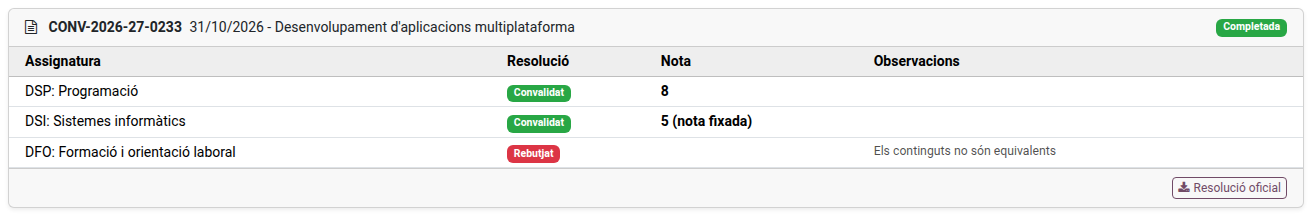
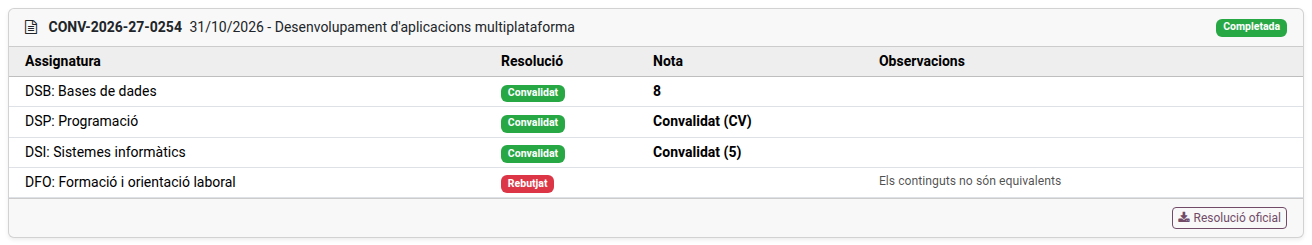
#738 Convalidations: show "Convalidat (5)" and "Convalidat (CV)"
Following the DOIGC wording, the resolution, portal, email and teachers'
notice read "Convalidat (5)" for a fixed 5 and "Convalidat (CV)" without
a grade. Tests, i18n, manuals and screenshots (all combinations) updated.

Changed region(s): [[0.0, 0.3349, 1.0, 0.9767], [0.0, 0.0279, 1.0, 0.307]]

diff --git a/tests/test_convalidation.py b/tests/test_convalidation.py
@@ -375,28 +375,19 @@ class TestConvalidation(TransactionCase):
         self.assertIn("Different competences", html)
         self.assertIn("1085/2020", html)
 
-    def test_only_a_subject_without_grade_reads_convalidated(self):
-        """Issue #580: "Convalidated" is the subject convalidated without a grade, not a 5."""
+    def test_the_resolution_shows_how_each_subject_is_convalidated(self):
+        """Issues #580 and #738: the grade, "Convalidated (CV)" without one and "Convalidated (5)"
+        with a fixed 5, as the DOIGC record them."""
         request = self._request(self.subject | self.other_subject)
         self._line(request).with_user(self.head_of_studies).action_grant()
-        self._line(request, self.other_subject).with_user(self.head_of_studies).write(
-            {'state': 'granted', 'grade_type': 'without_grade'})
-        cells = [cell.strip() for cell in self._resolution_html(request, 'en_US').split('<td>')[1:]]
-        self.assertTrue(any(cell.startswith('Convalidated') for cell in cells))
-        self.assertTrue(any(cell.startswith('5') for cell in cells))
-        self._line(request, self.other_subject).with_user(self.head_of_studies).write({'grade_type': 'grade'})
-        cells = [cell.strip() for cell in self._resolution_html(request, 'en_US').split('<td>')[1:]]
-        self.assertFalse(any(cell.startswith('Convalidated') for cell in cells))
-
-
-    def test_a_fixed_five_is_stated_on_the_resolution(self):
-        """Issue #738: the secretariat registers it differently in Esfera, so it says so."""
-        request = self._request(self.subject | self.other_subject)
-        self._line(request).with_user(self.head_of_studies).write({'state': 'granted', 'grade_type': 'fixed_five'})
-        self._line(request, self.other_subject).with_user(self.head_of_studies).action_grant()
-        cells = [cell.strip() for cell in self._resolution_html(request, 'en_US').split('<td>')[1:]]
-        self.assertEqual(sum(cell.startswith('5 (fixed grade)') for cell in cells), 1)
-        self.assertEqual(sum(cell.startswith('5') for cell in cells), 2)
+        other = self._line(request, self.other_subject).with_user(self.head_of_studies)
+        other.write({'state': 'granted', 'grade_type': 'without_grade'})
+        for grade_type, label in (('without_grade', 'Convalidated (CV)'), ('fixed_five', 'Convalidated (5)'),
+                                  ('grade', None)):
+            other.write({'grade_type': grade_type})
+            cells = [cell.split('<')[0].strip() for cell in self._resolution_html(request, 'en_US').split('<td>')[1:]]
+            self.assertIn('5', cells)
+            self.assertEqual([cell for cell in cells if cell.startswith('Convalidated')], [label] if label else [])
 
     def test_legal_grounds_and_appeal_are_configurable(self):
         request = self._request(basis='certificate')
@@ -716,7 +707,7 @@ class TestConvalidation(TransactionCase):
     def test_the_email_states_a_fixed_five(self):
         request = self._completed(grade_type='fixed_five')
         body = self._resolution_mails(request).body_html
-        self.assertTrue(any(text in body for text in ("fixed grade: 5", "nota fixada: 5", "nota fijada: 5")), body)
+        self.assertRegex(body, r"(?i)convalidat\w*</strong>\s*\(5\)")
 
     def _minor_with_family(self):
         minor = self.env['res.partner'].create({
@@ -1082,7 +1073,7 @@ class TestConvalidation(TransactionCase):
         self._teaching_staff()
         self._enroll_and_grade()
         self._completed(grade_type='without_grade')
-        self.assertIn(f"{self.subject.display_name}, without a grade", self._notices(self.teacher).body)
+        self.assertIn(f"{self.subject.display_name}, convalidated (CV)", self._notices(self.teacher).body)
 
     # --- registration number -------------------------------------------------
 
@@ -1091,7 +1082,7 @@ class TestConvalidation(TransactionCase):
         self._teaching_staff()
         self._enroll_and_grade()
         self._completed(grade_type='fixed_five')
-        self.assertIn(f"{self.subject.display_name}, with a fixed 5", self._notices(self.teacher).body)
+        self.assertIn(f"{self.subject.display_name}, convalidated (5)", self._notices(self.teacher).body)
 
     def test_requests_are_numbered_per_course(self):
         first, second = self._request(), self._request(self.other_subject)

diff --git a/tests/test_docs_screenshots.py b/tests/test_docs_screenshots.py
@@ -398,24 +398,27 @@ class TestDocsScreenshots(DocsScreenshotMixin, HttpCase):
                 'state': 'rejected',
                 'rejection_reason_id': self.env.ref('ems.convalidation_rejection_reason_contents').id})
 
+        def set_grade_types(request):
+            for line, grade_type in zip(request.line_ids[1:3], ('without_grade', 'fixed_five')):
+                line.sudo().write({'state': 'granted', 'grade_type': grade_type, 'rejection_reason_id': False})
+
         # Issue #657: the identity document, copied like the IDALU above it.
         self.students[0].document_id = '00000000T'
         # The Head of Studies' review: subjects decided, one refused with its reason.
-        review = new_request(self.students[0], subjects[1:], attachment_ids=[(0, 0, {
+        review = new_request(self.students[0], subjects, attachment_ids=[(0, 0, {
             'name': 'Certificat_academic_SMX.pdf', 'datas': base64.b64encode(b'%PDF-1.4 x')})],
             student_notes="Vaig cursar el CFGM de Sistemes microinformàtics i xarxes.")
         decide(review)
-        # Issue #580: a module convalidated without a grade.
-        review.line_ids[1].sudo().write({'state': 'granted', 'grade_type': 'without_grade', 'rejection_reason_id': False})
+        # Issues #580 and #738: every way of convalidating - a grade, without one (CV), a 5.
+        set_grade_types(review)
         at_ministry = new_request(self.students[1], subjects[1:2], basis='other')
         at_ministry.sudo().action_send_to_ministry()
         proposed = new_request(self.students[2], subjects[1:])
         decide(proposed)
         proposed.with_user(head_of_studies).action_propose()
-        resolved = new_request(self.portal_student, subjects[1:])
+        resolved = new_request(self.portal_student, subjects)
         decide(resolved)
-        # Issue #738: a module convalidated with a fixed 5, which the resolution states.
-        resolved.line_ids[1].sudo().write({'state': 'granted', 'grade_type': 'fixed_five', 'rejection_reason_id': False})
+        set_grade_types(resolved)
         resolved.with_user(head_of_studies).action_propose()
         resolved.with_user(director).action_resolve()
 

diff --git a/models/grades/convalidation.py b/models/grades/convalidation.py
@@ -23,9 +23,9 @@ GRADE_TYPES = [
     ('without_grade', 'Without grade'),
     ('fixed_five', 'With a fixed 5'),
 ]
-GRADE_TYPE_HELP = ("Without grade, the resolution and the grades show the subject as \"Convalidated\" (CV), "
-                   "and it does not count towards the average. With a fixed 5, it counts as a 5 whatever the "
-                   "previous studies hold, and the resolution states that the grade is fixed.")
+GRADE_TYPE_HELP = ("Without grade, the resolution shows the subject as \"Convalidated (CV)\" and the grades as "
+                   "CV, and it does not count towards the average. With a fixed 5, it counts as a 5 whatever the "
+                   "previous studies hold, and the resolution shows it as \"Convalidated (5)\".")
 
 # States a request can no longer move on from.
 CLOSED_STATES = ('completed', 'rejected', 'cancelled')
@@ -1058,9 +1058,9 @@ class EmsConvalidationLine(models.Model):
         self.ensure_one()
         subject = self.subject_id.display_name
         if self.grade_type == 'without_grade':
-            return self.env._("%(subject)s, without a grade", subject=subject)
+            return self.env._("%(subject)s, convalidated (CV)", subject=subject)
         if self.grade_type == 'fixed_five':
-            return self.env._("%(subject)s, with a fixed %(grade)s", subject=subject, grade=CONVALIDATED_GRADE)
+            return self.env._("%(subject)s, convalidated (5)", subject=subject)
         return self.env._("%(subject)s, with a %(grade)s", subject=subject, grade=self.grade)
 
     def _ems_rejection_text(self):

diff --git a/tests/test_portal_convalidation.py b/tests/test_portal_convalidation.py
@@ -331,7 +331,7 @@ class TestPortalConvalidation(HttpCase):
         request.sudo().action_complete()
         self._login(self.student_user)
         page = self.url_open('/my/convalidaciones').text
-        self.assertIn('<strong>Convalidated</strong>', page)
+        self.assertIn('<strong>Convalidated (CV)</strong>', page)
         self.assertNotIn('<strong>7</strong>', page)
 
 
@@ -341,7 +341,7 @@ class TestPortalConvalidation(HttpCase):
         request.sudo().action_complete()
         self._login(self.student_user)
         page = self.url_open('/my/convalidaciones').text
-        self.assertIn('<strong>5 (fixed grade)</strong>', page)
+        self.assertIn('<strong>Convalidated (5)</strong>', page)
 
     def test_resolution_is_not_downloadable_before_it_is_registered(self):
         request = self._resolved_request()

diff --git a/docs/en/developers/grades/convalidation.md b/docs/en/developers/grades/convalidation.md
@@ -91,7 +91,7 @@ The same kind of catalog as `ems.convalidation.info_reason` (`name` translatable
 | `subject_id` | M2o `ems.subject` | Must be one of `study_id._ems_convalidable_subjects()` (the study's subjects minus the tutorship). Unique per request. |
 | `state` | Selection | `pending`, `granted`, `rejected`. |
 | `grade` | Integer | The grade a granted subject is recorded with. Defaults to `CONVALIDATED_GRADE` (5) and is constrained to 5..10 when `grade_type` is `grade`: a convalidated subject is passed by definition. |
-| `grade_type` | Selection (`GRADE_TYPES`) | How the subject is convalidated. `grade` (default): with `grade`. `without_grade` (issue #580): the resolution and the portal read *Convalidat*, the grades a plain **CV**, and it does not count towards any average; `grade` is ignored. `fixed_five` (issue #738): it counts as a 5 whatever the previous studies hold (`_ems_resolved_grade()` returns `CONVALIDATED_GRADE`), and the resolution, the portal and the email say the grade is fixed (*5 (nota fixada)*), since the secretariat registers it differently in Esfera. Shown as the **Grade type** column on the form's subjects, for the secretariat. |
+| `grade_type` | Selection (`GRADE_TYPES`) | How the subject is convalidated. `grade` (default): with `grade`. `without_grade` (issue #580): the resolution and the portal read *Convalidat (CV)*, the grades a plain **CV**, and it does not count towards any average; `grade` is ignored. `fixed_five` (issue #738): it counts as a 5 whatever the previous studies hold (`_ems_resolved_grade()` returns `CONVALIDATED_GRADE`), and the resolution and the portal read *Convalidat (5)* (the email, "convalidat (5)"): the DOIGC record both kinds as *Convalidat*, the 5 only counting towards the average (convalidations from accredited competence standards), and the secretariat needs to tell them apart in Esfera. Shown as the **Grade type** column on the form's subjects, for the secretariat. |
 | `rejection_reason_id` | M2o `ems.convalidation.rejection_reason` | Why the subject is refused (`ondelete='restrict'`). Set by the reject dialog, editable on the line while under review. |
 | `rejection_reason` | Text | *Refusal details*: optional text after the reason. Lines refused before #580 hold their whole reason here, with no `rejection_reason_id`. |
 
@@ -150,7 +150,7 @@ There is no whole-request "reject" action: a refusal is a resolution like any ot
 - Company header (`web.external_layout`) and the title *Resolució de convalidació de mòduls professionals*.
 - Registration number, request date, applicant (with `document_id`), the representative of a minor (`_ems_resolution_representative()`: the family contact that filed it, else the first one on file), study and course.
 - Grounds of law: RD 1085/2020, art. 8 (fixed), plus `_ems_resolution_legal_grounds()`: the text configured for the request's `basis`, or the standard one.
-- One row per module: code, name, favourable/unfavourable, grade — *Convalidat* when the line's `grade_type` is `without_grade`, *5 (nota fixada)* when it is `fixed_five`, the number otherwise — and the refusal reason.
+- One row per module: code, name, favourable/unfavourable, grade — *Convalidat (CV)* when the line's `grade_type` is `without_grade`, *Convalidat (5)* when it is `fixed_five`, the number otherwise — and the refusal reason.
 - Place (company city) and `signature_date`, *El director / La directora*, *Per delegació* when configured, a green *Validat a l'EMS* stamp (who resolved it, the date and the registration number) where a signature would go, and the name from `_ems_resolution_signatory()`: the holder of `ems.role_director`, or `signed_by_id` when signing by delegation. The stamp is only EMS's own record of the step, not a qualified electronic signature (issue #530).
 - The appeal footer, `_ems_resolution_appeal_text()`: configured, or a standard one naming the competent body only in general terms (the exact body is pending confirmation with the Inspecció).
 

diff --git a/docs/es/head_of_studies/convalidations.md b/docs/es/head_of_studies/convalidations.md
@@ -93,7 +93,7 @@ En cada línea de la pestaña **Asignaturas**, usa los botones de la derecha:
 | ✖ (Rechazar) | Pide el motivo y deniega el módulo. |
 | ↺ (Volver a pendiente) | Deshace la decisión de la línea. |
 
-- **Nota:** cada módulo se revisa y se califica de uno en uno. Al pulsar ✔, un diálogo la pide: con el **Modo** en **Con nota** (por defecto), escribe la nota, 5 por defecto o la que tienen los estudios previos (de 5 a 10). Elige **Sin nota** cuando el módulo se convalida sin nota: la resolución lo muestra como **Convalidat**, las notas como **CV**, y no cuenta para la media. Elige **Con un 5 fijado** cuando el módulo se convalida con un 5 sea cual sea la nota de los estudios previos: cuenta como un 5, y la resolución muestra **5 (nota fixada)** para que secretaría lo registre así en Esfera. Hasta que no envíes la propuesta, aún puedes cambiar las columnas **Nota** y **Tipo de nota** de la línea.
+- **Nota:** cada módulo se revisa y se califica de uno en uno. Al pulsar ✔, un diálogo la pide: con el **Modo** en **Con nota** (por defecto), escribe la nota, 5 por defecto o la que tienen los estudios previos (de 5 a 10). Elige **Sin nota** cuando el módulo se convalida sin nota: la resolución lo muestra como **Convalidat (CV)**, las notas como **CV**, y no cuenta para la media. Elige **Con un 5 fijado** cuando el módulo se convalida con un 5 sea cual sea la nota de los estudios previos: cuenta como un 5 para la media, y la resolución muestra **Convalidat (5)** para que secretaría lo registre así en Esfera (por ejemplo, convalidaciones por estándares de competencia acreditados). Hasta que no envíes la propuesta, aún puedes cambiar las columnas **Nota** y **Tipo de nota** de la línea.
 - **Motivo de la denegación:** al pulsar ✖, un diálogo pide el **Motivo**, con el más habitual ya seleccionado, y unos **Detalles** opcionales. Ambos salen en la resolución. Hasta que no envíes la propuesta, aún puedes cambiarlos en la línea. La lista de motivos la mantienes tú mismo, junto con el administrador del EMS, desde **Gestión académica > Configuración > Convalidaciones** (ver [Configuración de las convalidaciones](../admin/convalidation-settings.md)).
 - **Qué ve el alumno:** nada de lo que decidas sobre cada módulo, ni las observaciones para el alumno, hasta que secretaría registra la resolución. Hasta entonces, el portal solo muestra los módulos solicitados y el estado de la solicitud.
 

diff --git a/docs/en/head_of_studies/convalidations.md b/docs/en/head_of_studies/convalidations.md
@@ -93,7 +93,7 @@ On each line of the **Subjects** tab, use the buttons on the right:
 | ✖ (Reject) | Asks for the reason, then refuses the module. |
 | ↺ (Back to pending) | Undoes the line's decision. |
 
-- **Grade:** each module is checked and graded one by one. When you click ✔, a dialog asks for it: with **Mode** set to **With grade** (the default), write the grade, 5 by default or the one the previous studies hold (from 5 to 10). Choose **Without grade** when the module is convalidated with no grade: the resolution shows it as **Convalidat**, the grades as **CV**, and it does not count towards the average. Choose **With a fixed 5** when the module is convalidated with a 5 whatever grade the previous studies hold: it counts as a 5, and the resolution shows **5 (nota fixada)** so the secretariat registers it that way in Esfera. Until you send the proposal, you can still change the **Grade** and **Grade type** columns on the line.
+- **Grade:** each module is checked and graded one by one. When you click ✔, a dialog asks for it: with **Mode** set to **With grade** (the default), write the grade, 5 by default or the one the previous studies hold (from 5 to 10). Choose **Without grade** when the module is convalidated with no grade: the resolution shows it as **Convalidat (CV)**, the grades as **CV**, and it does not count towards the average. Choose **With a fixed 5** when the module is convalidated with a 5 whatever grade the previous studies hold: it counts as a 5 towards the average, and the resolution shows **Convalidat (5)** so the secretariat registers it that way in Esfera (e.g. convalidations from accredited competence standards). Until you send the proposal, you can still change the **Grade** and **Grade type** columns on the line.
 - **Reason for refusal:** when you click ✖, a dialog asks for the **Reason**, with the most usual one already selected, and optional **Details**. Both appear on the resolution. They can still be changed on the line until you send the proposal. You maintain the list of reasons yourself, together with the EMS administrator, from **Academic management > Configuration > Convalidations** (see [Convalidation settings](../admin/convalidation-settings.md)).
 - **What the student sees:** nothing of what you decide on each module, nor the comments for the student, until the secretariat registers the resolution. Until then the portal only shows the modules requested and the state of the request.
 

diff --git a/docs/ca/head_of_studies/convalidations.md b/docs/ca/head_of_studies/convalidations.md
@@ -93,7 +93,7 @@ A cada línia de la pestanya **Assignatures**, fes servir els botons de la dreta
 | ✖ (Rebutjar) | Demana el motiu i denega el mòdul. |
 | ↺ (Torna a pendent) | Desfà la decisió de la línia. |
 
-- **Nota:** cada mòdul es revisa i es qualifica d'un en un. En clicar ✔, un diàleg la demana: amb el **Mode** a **Amb nota** (per defecte), escriu la nota, 5 per defecte o la que tenen els estudis previs (de 5 a 10). Tria **Sense nota** quan el mòdul es convalida sense nota: la resolució el mostra com a **Convalidat**, les notes com a **CV**, i no compta per a la mitjana. Tria **Amb un 5 fixat** quan el mòdul es convalida amb un 5 sigui quina sigui la nota dels estudis previs: compta com un 5, i la resolució mostra **5 (nota fixada)** perquè secretaria el registri així a Esfera. Fins que no enviïs la proposta, encara pots canviar les columnes **Nota** i **Tipus de nota** de la línia.
+- **Nota:** cada mòdul es revisa i es qualifica d'un en un. En clicar ✔, un diàleg la demana: amb el **Mode** a **Amb nota** (per defecte), escriu la nota, 5 per defecte o la que tenen els estudis previs (de 5 a 10). Tria **Sense nota** quan el mòdul es convalida sense nota: la resolució el mostra com a **Convalidat (CV)**, les notes com a **CV**, i no compta per a la mitjana. Tria **Amb un 5 fixat** quan el mòdul es convalida amb un 5 sigui quina sigui la nota dels estudis previs: compta com un 5 per a la mitjana, i la resolució mostra **Convalidat (5)** perquè secretaria el registri així a Esfera (per exemple, convalidacions per estàndards de competència acreditats). Fins que no enviïs la proposta, encara pots canviar les columnes **Nota** i **Tipus de nota** de la línia.
 - **Motiu de la denegació:** en clicar ✖, un diàleg demana el **Motiu**, amb el més habitual ja seleccionat, i uns **Detalls** opcionals. Tots dos surten a la resolució. Fins que no enviïs la proposta, encara els pots canviar a la línia. La llista de motius la mantens tu mateix, juntament amb l'administrador de l'EMS, des de **Gestió acadèmica > Configuració > Convalidacions** (vegeu [Configuració de les convalidacions](../admin/convalidation-settings.md)).
 - **Què veu l'alumne:** res del que decideixis sobre cada mòdul, ni les observacions per a l'alumne, fins que secretaria registra la resolució. Fins aleshores, el portal només mostra els mòduls sol·licitats i l'estat de la sol·licitud.
 

diff --git a/docs/es/families/manual-convalidacions.md b/docs/es/families/manual-convalidacions.md
@@ -82,7 +82,7 @@ Cada solicitud aparece bajo el formulario, con su número de registro (por ejemp
 | **Rechazada** | Registrada, sin ningún módulo convalidado. |
 | **Anulada** | La solicitud se ha anulado. Si la ha anulado el centro, su recuadro indica el motivo. |
 
-Mientras la solicitud se tramita, la tabla solo lista los módulos solicitados: el estado te indica en qué punto está. La decisión sobre cada módulo aún puede cambiar hasta que secretaría la registra, y por eso no se muestra antes. Cuando la solicitud queda **Completada** o **Rechazada**, la tabla muestra la resolución de cada módulo (**Convalidado** o **Rechazado**) y, en **Observaciones**, el motivo de los módulos rechazados; en una solicitud **Completada** aparece también la columna **Nota**: un módulo convalidado sin nota muestra ahí **Convalidado**, y uno convalidado con un 5 fijado (un 5 sea cual sea la nota de los estudios previos) muestra **5 (nota fijada)**.
+Mientras la solicitud se tramita, la tabla solo lista los módulos solicitados: el estado te indica en qué punto está. La decisión sobre cada módulo aún puede cambiar hasta que secretaría la registra, y por eso no se muestra antes. Cuando la solicitud queda **Completada** o **Rechazada**, la tabla muestra la resolución de cada módulo (**Convalidado** o **Rechazado**) y, en **Observaciones**, el motivo de los módulos rechazados; en una solicitud **Completada** aparece también la columna **Nota**: un módulo convalidado sin nota muestra ahí **Convalidado (CV)** (no cuenta para la media), y uno que cuenta como un 5 sea cual sea la nota de los estudios previos muestra **Convalidado (5)**.
 
 Cuando la solicitud queda **Completada** o **Rechazada**, recibirás un correo con la resolución oficial en PDF. También puedes descargarla desde el portal con el botón **Resolución oficial**.
 

diff --git a/docs/ca/families/manual-convalidacions.md b/docs/ca/families/manual-convalidacions.md
@@ -82,7 +82,7 @@ Cada sol·licitud apareix sota el formulari, amb el seu número de registre (per
 | **Rebutjada** | Registrada, sense cap mòdul convalidat. |
 | **Anul·lada** | La sol·licitud s'ha anul·lat. Si l'ha anul·lada el centre, el seu requadre n'indica el motiu. |
 
-Mentre la sol·licitud es tramita, la taula només llista els mòduls sol·licitats: l'estat t'indica en quin punt es troba. La decisió sobre cada mòdul encara pot canviar fins que secretaria la registra, i per això no es mostra abans. Quan la sol·licitud queda **Completada** o **Rebutjada**, la taula mostra la resolució de cada mòdul (**Convalidat** o **Rebutjat**) i, a **Observacions**, el motiu dels mòduls rebutjats; en una sol·licitud **Completada** hi apareix també la columna **Nota**: un mòdul convalidat sense nota hi mostra **Convalidat**, i un de convalidat amb un 5 fixat (un 5 sigui quina sigui la nota dels estudis previs) hi mostra **5 (nota fixada)**.
+Mentre la sol·licitud es tramita, la taula només llista els mòduls sol·licitats: l'estat t'indica en quin punt es troba. La decisió sobre cada mòdul encara pot canviar fins que secretaria la registra, i per això no es mostra abans. Quan la sol·licitud queda **Completada** o **Rebutjada**, la taula mostra la resolució de cada mòdul (**Convalidat** o **Rebutjat**) i, a **Observacions**, el motiu dels mòduls rebutjats; en una sol·licitud **Completada** hi apareix també la columna **Nota**: un mòdul convalidat sense nota hi mostra **Convalidat (CV)** (no compta per a la mitjana), i un que compta com un 5 sigui quina sigui la nota dels estudis previs hi mostra **Convalidat (5)**.
 
 Quan la sol·licitud queda **Completada** o **Rebutjada**, rebràs un correu amb la resolució oficial en PDF. També la pots descarregar des del portal amb el botó **Resolució oficial**.
 

diff --git a/docs/en/families/manual-convalidacions.md b/docs/en/families/manual-convalidacions.md
@@ -82,7 +82,7 @@ Each request appears below the form, with its registration number (e.g. CONV-202
 | **Rejected** | Registered, with no module convalidated. |
 | **Cancelled** | The request was cancelled. If the centre cancelled it, its box shows why. |
 
-While the request is being processed, the table only lists the modules requested: the state tells you how far it has got. The decision on each module can still change until the secretariat registers it, so it is not shown before. Once the request is **Completed** or **Rejected**, the table shows each module's resolution (**Convalidated** or **Rejected**) and, under **Remarks**, the reason for the rejected ones; on a **Completed** request the **Grade** column appears too: a module convalidated without a grade shows **Convalidated** there, and one convalidated with a fixed 5 (a 5 whatever grade the previous studies hold) shows **5 (fixed grade)**.
+While the request is being processed, the table only lists the modules requested: the state tells you how far it has got. The decision on each module can still change until the secretariat registers it, so it is not shown before. Once the request is **Completed** or **Rejected**, the table shows each module's resolution (**Convalidated** or **Rejected**) and, under **Remarks**, the reason for the rejected ones; on a **Completed** request the **Grade** column appears too: a module convalidated without a grade shows **Convalidated (CV)** there (it does not count towards the average), and one that counts as a 5 whatever grade the previous studies hold shows **Convalidated (5)**.
 
 When the request becomes **Completed** or **Rejected**, you get an email with the official resolution as a PDF. You can also download it from the portal with the **Official resolution** button.
 

diff --git a/changelog/738-convalidation-5-grade.md b/changelog/738-convalidation-5-grade.md
@@ -4,7 +4,7 @@
 
 - A convalidated subject now has a **Grade type** with three options instead of the old "Without grade" checkbox: **With grade** (5 to 10, as before), **Without grade** (plain CV, not counted in the average, as before) and the new **With a fixed 5**, for convalidations that always get a 5 whatever grade the previous studies hold.
 - The Head of Studies picks it in the Convalidate dialog (the grade field hides for the two options that need none) and can still change it on the line while the request is under review; like the grade, it is locked once proposed.
-- A fixed 5 reaches the student's grades and year record as a 5 and counts towards the average; the resolution PDF and the portal show it as "5 (nota fixada)", the resolution email as "nota fixada: 5" (in each language), and the teachers' notice as "with a fixed 5".
+- A fixed 5 reaches the student's grades and year record as a 5 and counts towards the average. Following the DOIGC (which record both kinds as "Convalidat", the 5 only counting for the average, e.g. convalidations from accredited competence standards), the resolution PDF and the portal now show "Convalidat (5)" and "Convalidat (CV)" for the one without a grade (it used to read just "Convalidat"); the resolution email and the teachers' notice say "convalidat (5)" / "convalidat (CV)" the same way.
 - The form's subject list shows the **Grade type** column, so the secretariat knows how to register each subject in Esfera.
 - Manuals updated for the Head of Studies, the secretariat and families (ca/es/en), with new screenshots; developer doc updated.
 
